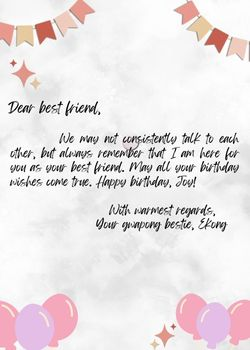
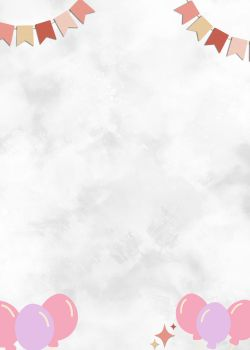
final

diff --git a/index.html b/index.html
@@ -15,9 +15,21 @@
           <img src="Joy!.png" alt="" />
         </div>
         <div class="cardInside">
-          <img src="greetings.jpg" alt="" />
+          <p class="letter">
+            Dear best friend, <br /><br />
+            &nbsp;&nbsp;&nbsp;&nbsp;&nbsp;We may not consistently talk to each
+            other, but always remember that I am here for you as your best
+            friend. May all your birthday wishes come true. Happy birthday, Joy!
+            <br /><br />&nbsp;&nbsp;&nbsp;&nbsp;&nbsp;&nbsp;&nbsp;&nbsp;&nbsp;&nbsp;&nbsp;&nbsp;&nbsp;&nbsp;&nbsp;&nbsp;&nbsp;&nbsp;&nbsp;&nbsp;With
+            warmest regards,
+            <br />&nbsp;&nbsp;&nbsp;&nbsp;&nbsp;&nbsp;&nbsp;&nbsp;&nbsp;&nbsp;&nbsp;&nbsp;&nbsp;&nbsp;&nbsp;&nbsp;Your
+            gwapong bestie, Ekong
+          </p>
         </div>
       </div>
     </div>
+    <style>
+      @import url("https://fonts.googleapis.com/css2?family=Dancing+Script:wght@700&display=swap");
+    </style>
   </body>
 </html>

diff --git a/style.css b/style.css
@@ -40,14 +40,14 @@ body {
    
    .cardInside {
      position: absolute;
-     background-color: #fff;
+     background-image: url('greetings.jpg');
      border: 2px solid yellowgreen;
      width: 250px;
      height:350px;
      z-index:-1;
      left:0;
      top:0;
-     box-shadow: inset 100px 20px 100px rgba(0,0,0,0.2);
+     box-shadow: inset 100px 20px 100px rgba(0,0,0,0.1);
    }
    
    .back {
@@ -70,6 +70,14 @@ body {
    
    .birthdayCard:hover .happy {
      visibility:hidden; 
+   }
+   .letter {
+    text-align: justify;
+    font-family: 'Dancing Script', cursive;
+    font-weight: 700;
+    margin-top: 60px;
+    margin-left: 10px;
+    margin-right: 10px;
    }
    
    @keyframes blink {
